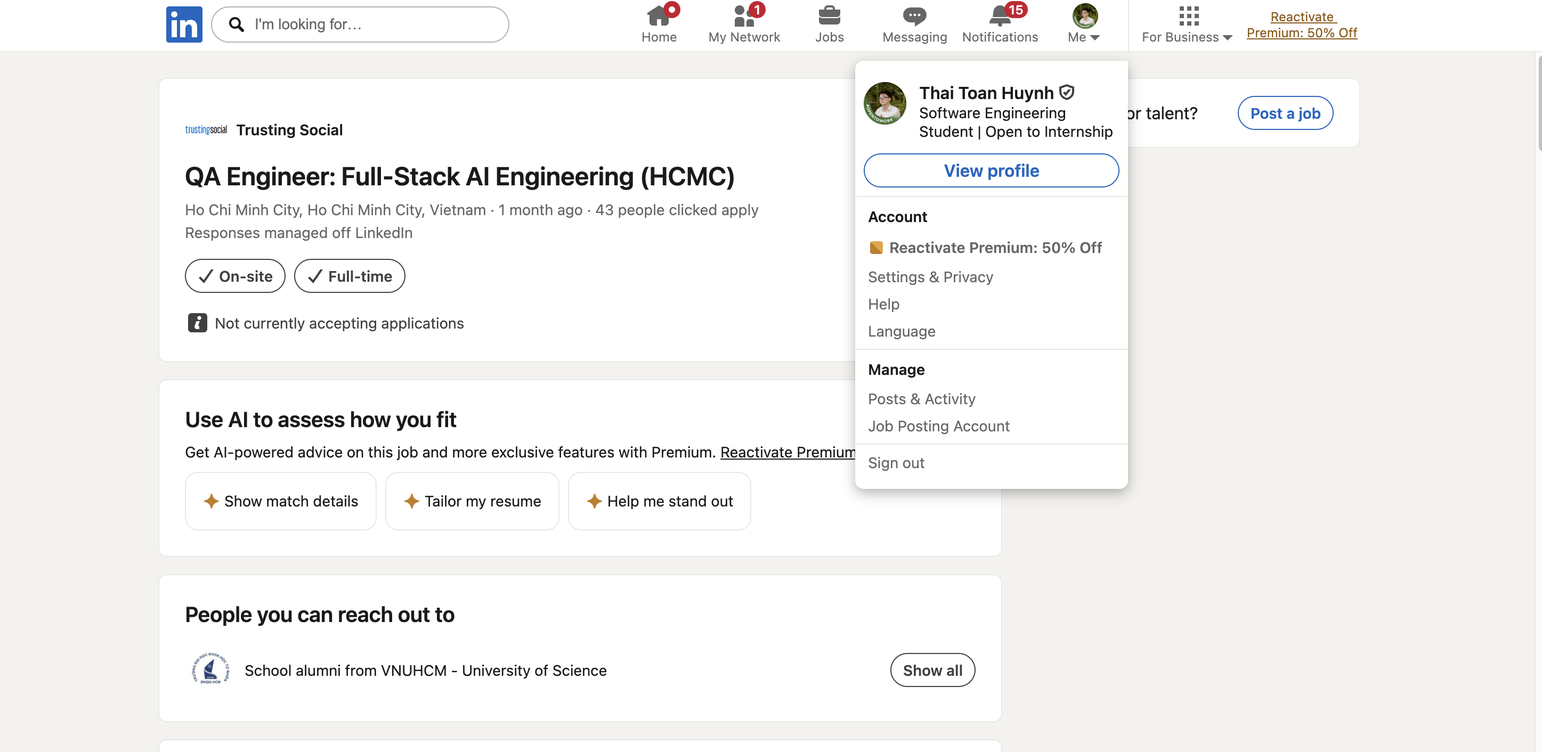
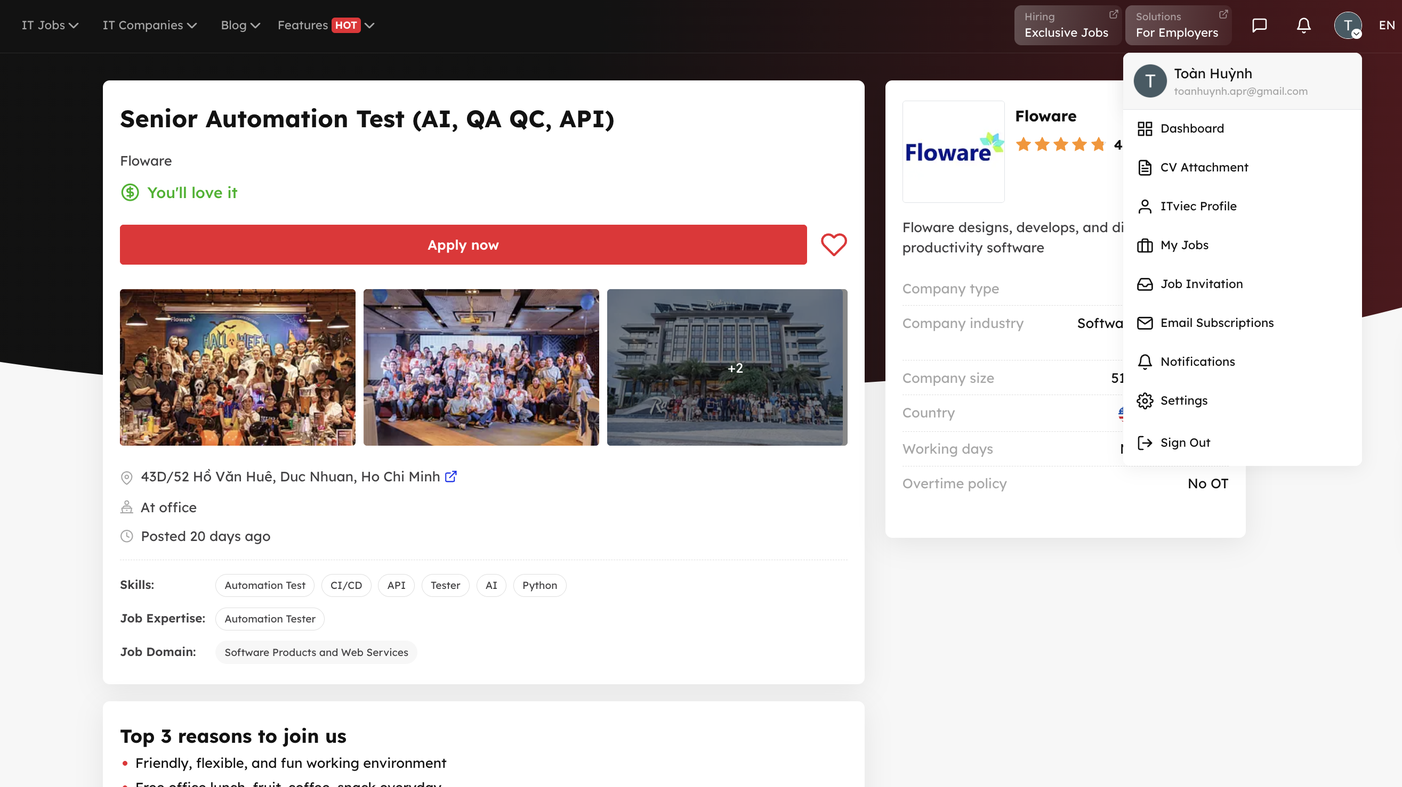
docs(hw01): finalize R1 job postings with unified JP01–JP10 screenshots

diff --git a/HW01/HW01_Report.md b/HW01/HW01_Report.md
@@ -1,94 +1,72 @@
-<!--
-HW01 – Requirement 1 working draft
-
-Re-verified on 24/09/2026 (evening). Sources used for dates:
-- LinkedIn: relative "posted" label on the public job page (exact date not exposed).
-- TopCV: `datePosted` in the page's JobPosting structured data (JSON-LD); the
-  visible page shows only the application deadline ("Hạn ứng tuyển").
-- ITviec: visible "Posted X days ago" label and `datePosted` metadata.
-- Indeed: automated access is redirected to sign-in (bot detection); JP03's date
-  was taken from the same job on DXC's official careers site / Workday.
-An application deadline is not a publication date.
--->
-
 # HW01 – QA/QC Jobs, Defects and Physical Product
 
 ## Requirement 1 – QA/QC Job Market 2026+ (40 points)
 
-### 1.1 Search scope and evidence status
+### 1.1 Search scope
 
-- **Submission date:** `[dd/mm/yyyy – fill in before submission]`
-- **Research snapshot:** 24/09/2026. For the planned 28/09/2026 submission, the 60-day window is 30/07/2026–28/09/2026; recalculate if the actual submission date changes.
-- **Number of postings:** 10. JP08 and JP09 were replaced on 24/09/2026 because the original ANDPAD and GoTymeX listings returned HTTP 404; their screenshots still have to be captured. JP03 was confirmed still open on 24/09/2026.
-- **Postings requiring AI/LLM/AI-assisted automation:** 5 (JP01, JP02, JP04, JP08, JP09), confirmed from the posting text on 24/09/2026. The requirement of ≥ 3 is met even if JP01 (“1 month ago”, not accepting applications) is dropped.
+- **Submission date:** `[dd/mm/yyyy]`
+- **60-day window:** 30/07/2026–28/09/2026
+- **Number of postings:** 10
+- **Postings requiring AI/LLM/AI-assisted automation skills:** 5 (JP01, JP02, JP04, JP08, JP09)
 - **Screenshot folder:** `R1_Job_Postings/`
-
-The assignment requires 10 postings published within 60 days before submission.
-Each screenshot must be taken in the student's own logged-in account, with the
-posting-date label and the account name/display name visible in a corner.
 
 ### 1.2 Summary of collected postings
 
-| ID | Position | Company | Platform | Posting date (verified 24/09/2026) | AI/LLM/AI-automation requirement | Salary | Evidence |
+| ID | Position | Company | Platform | Posting date | AI/LLM/AI-automation requirement | Salary | Evidence |
 |---|---|---|---|---|---|---|---|
-| JP01 | [QA Engineer: Full-Stack AI Engineering (HCMC)](https://www.linkedin.com/jobs/view/qa-engineer-full-stack-ai-engineering-hcmc-at-trusting-social-4448937255) | Trusting Social | LinkedIn | “1 month ago” (live page and screenshot agree); exact date not exposed; screenshot shows “Not currently accepting applications” | **Yes** – Claude Code/agents, AI Operator for quality workflows | Not disclosed | `JP01.png` |
-| JP02 | [AI Quality Assurance Tester (Data Testing)](https://www.linkedin.com/jobs/view/4459648611/) | SCC Vietnam | LinkedIn | “4 weeks ago” (live); screenshot of 23/09 shows “3 weeks ago” | **Yes** – AI testing, conversational interfaces, Azure AI, EU AI Act | Not disclosed | `JP02.png` |
-| JP03 | [Quality Engineering](https://jobs.vn.indeed.com/viewjob?jk=9ffa161d1774e3cf) | DXC Technology | Indeed | 08/09/2026 per DXC's official careers site (same job, ID 51585699); not shown in the Indeed screenshot | No (AI appears only in the company overview) | Not disclosed; listing says competitive package | `JP03_DXC.png` |
-| JP04 | [Senior QA Engineer (AI-Augmented Quality Engineering)](https://www.linkedin.com/jobs/view/senior-qa-engineer-ai-augmented-quality-engineering-4466589603) | Ins Enco | LinkedIn | “1 week ago” (live page and screenshot agree) | **Yes** – GPT/Claude test generation, Mabl/Testim, Applitools/Percy, Postbot | 30–40 million VND gross/month | `JP04.png` |
-| JP05 | [Nhân Viên Kiểm Thử Phần Mềm (Tester)](https://www.topcv.vn/viec-lam/nhan-vien-kiem-thu-phan-mem-tester/2306333.html) | Công ty TNHH Phát triển Công nghệ Thái Sơn | TopCV | 18/09/2026 (`datePosted`); deadline 18/10/2026 | No | 9–11 million VND (pay period not stated) | `JP05.png` |
-| JP06 | [Software Tester](https://www.topcv.vn/viec-lam/software-tester/2308656.html) | Công ty Cổ phần Voyager | TopCV | 22/09/2026 (`datePosted`); deadline 22/10/2026 | No | Negotiable | `JP06.png` |
-| JP07 | [Manual Tester](https://www.topcv.vn/viec-lam/manual-tester/2307365.html) | CTCP Phần mềm SOFTMART | TopCV | 21/09/2026 (`datePosted`); deadline 21/10/2026 | No | 9–14 million VND | `JP07.png` |
-| JP08 | [[Hanoi] Fullstack QA Engineer Lead (Manual, Auto, AI)](https://itviec.com/it-jobs/hanoi-fullstack-qa-engineer-lead-manual-auto-ai-money-forward-vietnam-co-ltd-4636) | Money Forward Vietnam | ITviec | 14/09/2026 (`datePosted`); live page shows “Posted 6 hours ago” (refreshed listing) | **Yes** – GenAI tools (Cursor, GitHub Copilot, LLM assistants), AI-augmented testing, testing AI features | Not disclosed (“You'll love it”) | `JP08_MoneyForward.png` (to capture) |
-| JP09 | [QA Engineer (Claude Code, Python, React, Manual Tester)](https://itviec.com/it-jobs/qa-engineer-claude-code-python-react-manual-tester-brarista-4435) | Brarista | ITviec | 07/09/2026 (`datePosted`); live page shows “Posted 17 days ago” | **Yes** – Claude Code for test matrices/regression suites, verifying AI-suggested tags | 800–1,000 USD/month (structured data; visible after sign-in) | `JP09_Brarista.png` (to capture) |
-| JP10 | [Software Quality Analyst (QA, Tester)](https://itviec.com/it-jobs/software-quality-analyst-qa-tester-mitek-vietnam-0714) | MiTek Vietnam | ITviec | 21/08/2026 (`datePosted`); screenshot shows “Posted 33 days ago”, live page “Posted 34 days ago” | No | Not disclosed; listing says competitive salary | `JP10.png` |
+| JP01 | [Senior Automation Test (AI, QA QC, API)](https://itviec.com/it-jobs/senior-automation-test-ai-qa-qc-api-floware-1219) | Floware | ITviec | 04/09/2026 | **Yes** – AI tools (Claude, Cursor, Copilot, ChatGPT) for test design, automation, debugging and quality analysis | Not disclosed | `JP01.png` |
+| JP02 | [AI Quality Assurance Tester (Data Testing)](https://www.linkedin.com/jobs/view/4459648611/) | SCC Vietnam | LinkedIn | 3 weeks ago (as of 23/09/2026) | **Yes** – AI testing, conversational interfaces, Azure AI, EU AI Act | Not disclosed | `JP02.png` |
+| JP03 | [Quality Engineering](https://dxctechnology.wd1.myworkdayjobs.com/DXCJobs/job/VNM---HO-CHI-MINH-CITY/Quality-Engineering_51585699?src=JB-11100) | DXC Technology | DXC Careers (Workday) | 08/09/2026 | No | Not disclosed | `JP03.png` |
+| JP04 | [Senior QA Engineer (AI-Augmented Quality Engineering)](https://www.linkedin.com/jobs/view/senior-qa-engineer-ai-augmented-quality-engineering-4466589603) | Ins Enco | LinkedIn | 1 week ago (as of 23/09/2026) | **Yes** – GPT/Claude test generation, Mabl/Testim, Applitools/Percy, Postbot | 30–40 million VND gross/month | `JP04.png` |
+| JP05 | [Nhân Viên Kiểm Thử Phần Mềm (Tester)](https://www.topcv.vn/viec-lam/nhan-vien-kiem-thu-phan-mem-tester/2306333.html) | Công ty TNHH Phát triển Công nghệ Thái Sơn | TopCV | 18/09/2026 | No | 9–11 million VND | `JP05.png` |
+| JP06 | [Software Tester](https://www.topcv.vn/viec-lam/software-tester/2308656.html) | Công ty Cổ phần Voyager | TopCV | 22/09/2026 | No | Negotiable | `JP06.png` |
+| JP07 | [Manual Tester](https://www.topcv.vn/viec-lam/manual-tester/2307365.html) | CTCP Phần mềm SOFTMART | TopCV | 21/09/2026 | No | 9–14 million VND | `JP07.png` |
+| JP08 | [[Hanoi] Fullstack QA Engineer Lead (Manual, Auto, AI)](https://itviec.com/it-jobs/hanoi-fullstack-qa-engineer-lead-manual-auto-ai-money-forward-vietnam-co-ltd-4636) | Money Forward Vietnam | ITviec | 14/09/2026 | **Yes** – GenAI tools (Cursor, GitHub Copilot, LLM assistants), AI-augmented testing, testing AI features | Not disclosed | `JP08.png` |
+| JP09 | [QA Engineer (Claude Code, Python, React, Manual Tester)](https://itviec.com/it-jobs/qa-engineer-claude-code-python-react-manual-tester-brarista-4435) | Brarista | ITviec | 07/09/2026 | **Yes** – Claude Code for test matrices/regression suites, verifying AI-suggested tags | 800–1,000 USD/month | `JP09.png` |
+| JP10 | [Software Quality Analyst (QA, Tester)](https://itviec.com/it-jobs/software-quality-analyst-qa-tester-mitek-vietnam-0714) | MiTek Vietnam | ITviec | 21/08/2026 | No | Not disclosed | `JP10.png` |
 
 ### 1.3 Detailed posting records
 
-Each posting contains exactly the items required by the assignment: link,
-dated screenshot, job description, required skills, salary, and 1–2 sentences
-of AI Impact Analysis.
+#### JP01 – Senior Automation Test (AI, QA QC, API), Floware
 
-#### JP01 – QA Engineer: Full-Stack AI Engineering (HCMC), Trusting Social
+- **Link:** [ITviec job posting](https://itviec.com/it-jobs/senior-automation-test-ai-qa-qc-api-floware-1219)
+- **Dated screenshot:** “Posted 20 days ago”, captured 24/09/2026 (posted 04/09/2026).
 
-- **Link:** [LinkedIn job posting](https://www.linkedin.com/jobs/view/qa-engineer-full-stack-ai-engineering-hcmc-at-trusting-social-4448937255)
-- **Dated screenshot:** “1 month ago” in the saved screenshot and on the live page (24/09/2026); LinkedIn does not expose the exact date, so the 60-day window cannot be proven. The screenshot also shows “Not currently accepting applications”.
+  ![JP01 – Floware ITviec screenshot](R1_Job_Postings/JP01.png)
 
-  ![JP01 – Trusting Social screenshot](R1_Job_Postings/JP01.png)
-
-- **Job description:** Own quality for a product or partner-integration track, from test design and automation to defect root-cause analysis and release go/no-go decisions. Build API, E2E, mobile and visual test suites and deterministic test infrastructure (service mocks, CI gates, test-data tooling); drive Claude Code and similar agents in a test-first loop; perform exploratory and risk-based testing and investigate defects with Datadog, Temporal, Kafka and SQL.
-- **Required skills:** 3+ years of QA engineering with test automation across APIs, Web UI and Mobile; TypeScript/JavaScript (Node); SQL; critical use of AI (prompting, evaluating agent output, acting as an “AI Operator” for quality workflows); strong professional English; Bachelor's in CS/Engineering or equivalent. Mobile/visual/performance testing, CI/CD, contract/mock testing and observability tools are pluses.
-- **Salary:** Not disclosed (listing mentions a competitive package with 13th-month salary).
-- **AI Impact Analysis:** AI can assist with test generation, code-level checks and quality-workflow automation in this role. Human QA judgment remains necessary to validate risk, coverage and failures in the full-stack product.
+- **Job description:** Ensure the quality of backend APIs in an Agile team through automated and manual testing, using AI tools to speed up test design, automation, debugging and quality analysis. Build API test scripts (Postman, Python); test an email system end to end (API, IMAP, SMTP, JMAP, migration, synchronization, authentication); run benchmarking, performance, load and stress tests; integrate API tests into Jenkins CI/CD and report results with Allure.
+- **Required skills:** 4+ years of automation testing; end-to-end automation process; experience using AI tools (Claude, Cursor, Copilot, ChatGPT) to improve testing productivity; Python; API automation (Python, Java, JMeter, Postman); CI/CD (GitHub, Jenkins, GitLab CI, nightly runs); analytical and problem-solving skills. Performance and security testing are a plus.
+- **Salary:** Not disclosed (net salary based on skills and experience).
+- **AI Impact Analysis:** AI tools can speed up API test design, script writing and failure debugging for this role. Protocol-level behavior such as IMAP/SMTP synchronization and performance bottlenecks still needs a human tester to design realistic workloads and interpret the results.
 
 #### JP02 – AI Quality Assurance Tester (Data Testing), SCC Vietnam
 
 - **Link:** [LinkedIn job posting](https://www.linkedin.com/jobs/view/4459648611/)
-- **Dated screenshot:** The saved screenshot (23/09/2026) shows “3 weeks ago”; the live page on 24/09/2026 shows “4 weeks ago”. Exact date is not exposed.
+- **Dated screenshot:** “3 weeks ago”, captured 23/09/2026.
 
   ![JP02 – SCC Vietnam screenshot](R1_Job_Postings/JP02.png)
 
 - **Job description:** Develop test scripts and test data for Scout, an AI-powered sales agent in Microsoft Teams. Validate chat-based AI answers, data consolidation from ZoomInfo, CRM and web sources, meeting-preparation outputs, conflict-resolution rules and EU AI Act transparency/logging; perform SIT/FAT with the UK team, report defects and support the Test Lead's documentation.
 - **Required skills:** Bachelor's degree; 2–4 years in software or AI testing (manual and automated); Microsoft Teams, Azure AI/Cloud and CRM platforms (Sales Hub, Salesforce); testing conversational interfaces, data pipelines or AI-powered applications; AI conflict resolution, data governance and EU AI Act; SIT/FAT, testing lifecycle, Agile, root-cause analysis and stakeholder management.
-- **Salary:** Not disclosed (listing says competitive remuneration).
+- **Salary:** Not disclosed (competitive remuneration).
 - **AI Impact Analysis:** AI can help generate data variations, classify failures and accelerate conversational test analysis. Human testers must still judge correctness, context and harmful or misleading responses.
 
 #### JP03 – Quality Engineering, DXC Technology
 
-- **Link:** [Indeed job posting](https://jobs.vn.indeed.com/viewjob?jk=9ffa161d1774e3cf)
-- **Dated screenshot:** The saved Indeed screenshot shows no posting date, and Indeed redirected automated checking to its sign-in page on 24/09/2026. The same job (DXC job ID 51585699, identical description) is listed on DXC's official careers site with `datePosted: 2026-09-08`; its Workday page shows “Posted 16 Days Ago” and still accepts applications (checked 24/09/2026). Recapture the Indeed page while logged in with the posting-age label visible, and add a screenshot of the DXC careers page as supporting date evidence.
-  - Supporting date source: [DXC careers – Quality Engineering, Tan Binh](https://careers.dxc.com/vi/job-vi/23717901/quality-engineering-tan-binh-vn/)
+- **Link:** [DXC Careers (Workday) job posting](https://dxctechnology.wd1.myworkdayjobs.com/DXCJobs/job/VNM---HO-CHI-MINH-CITY/Quality-Engineering_51585699?src=JB-11100) – job ID 51585699
+- **Dated screenshot:** “Posted 16 Days Ago”, captured 24/09/2026 (posted 08/09/2026).
 
-  ![JP03 – DXC Technology Indeed screenshot](R1_Job_Postings/JP03_DXC.png)
+  ![JP03 – DXC Technology Workday screenshot](R1_Job_Postings/JP03.png)
 
 - **Job description:** Develop and run automated tests for lending software, integrate tests into CI/CD, create test plans and summary reports, review solution documents, and help set acceptance criteria and resolve defects.
 - **Required skills:** 3+ years in software testing, including 2+ years of web/mobile and API automation; Selenium WebDriver with Java or Cypress with JavaScript/TypeScript; testing methods, Agile, and English communication. Postman/PACT/SoapUI/REST Assured and QTest/Jira/Confluence are also listed.
-- **Salary:** Not disclosed; the listing describes the package as competitive.
+- **Salary:** Not disclosed.
 - **AI Impact Analysis:** Automation tools can reduce repetitive regression work and provide earlier feedback in CI/CD. Human QA still needs to assess lending risks, acceptance criteria, test coverage and whether fixes address the underlying defects.
 
 #### JP04 – Senior QA Engineer (AI-Augmented Quality Engineering), Ins Enco
 
 - **Link:** [LinkedIn job posting](https://www.linkedin.com/jobs/view/senior-qa-engineer-ai-augmented-quality-engineering-4466589603)
-- **Dated screenshot:** “1 week ago” in the saved screenshot and on the live page (24/09/2026); exact date is not exposed.
+- **Dated screenshot:** “1 week ago”, captured 23/09/2026.
 
   ![JP04 – Ins Enco LinkedIn screenshot](R1_Job_Postings/JP04.png)
 
@@ -100,82 +78,71 @@ of AI Impact Analysis.
 #### JP05 – Nhân Viên Kiểm Thử Phần Mềm (Tester), Công ty TNHH Phát triển Công nghệ Thái Sơn
 
 - **Link:** [TopCV job posting](https://www.topcv.vn/viec-lam/nhan-vien-kiem-thu-phan-mem-tester/2306333.html)
-- **Dated screenshot:** Posted 18/09/2026 according to the page's `datePosted` metadata (checked 24/09/2026). The visible page and screenshot show only the application deadline (18/10/2026), so add evidence that shows the posting date.
+- **Dated screenshot:** Posted 18/09/2026; application deadline 18/10/2026.
 
   ![JP05 – Thái Sơn TopCV screenshot](R1_Job_Postings/JP05.png)
 
 - **Job description:** Plan test scenarios for software features, review design/solution documents, assess software-development process and product quality before release, and suggest testing techniques.
-- **Required skills:** Requirement analysis, testing process and techniques, test planning, test-case/script creation, collaboration with developers; the listing asks for under one year of experience and a relevant university degree.
-- **Salary:** 9–11 million VND; the listing does not show a pay period in the captured salary field.
-- **AI Impact Analysis:** AI could help draft test ideas and test scripts from requirements, but a tester must check that the cases fit the insurance specialization tagged on the listing and the actual release risks.
+- **Required skills:** Requirement analysis, testing process and techniques, test planning, test-case/script creation, collaboration with developers; under one year of experience and a relevant university degree.
+- **Salary:** 9–11 million VND.
+- **AI Impact Analysis:** AI could help draft test ideas and test scripts from requirements, but a tester must check that the cases fit the insurance specialization of the role and the actual release risks.
 
 #### JP06 – Software Tester, Công ty Cổ phần Voyager
 
 - **Link:** [TopCV job posting](https://www.topcv.vn/viec-lam/software-tester/2308656.html)
-- **Dated screenshot:** Posted 22/09/2026 according to the page's `datePosted` metadata (checked 24/09/2026). The visible page and screenshot show only the application deadline (22/10/2026), so add evidence that shows the posting date.
+- **Dated screenshot:** Posted 22/09/2026; application deadline 22/10/2026.
 
   ![JP06 – Voyager TopCV screenshot](R1_Job_Postings/JP06.png)
 
 - **Job description:** Functionally test software and web applications, document issues, manage test cases, update bug status, retest new versions and follow up on the development team's fixes.
 - **Required skills:** More than 3 years of testing experience, manual and automation testing, Google Sheets or Excel, and Japanese language ability or experience on Japanese-language projects.
-- **Salary:** Negotiable; the listing states it depends on qualifications and experience.
+- **Salary:** Negotiable, depending on qualifications and experience.
 - **AI Impact Analysis:** AI can assist with test-case drafting and bug-report summaries. Human review remains necessary for Japanese-language requirements, reproducibility and deciding whether a fix resolves the defect.
 
 #### JP07 – Manual Tester, CTCP Phần mềm SOFTMART
 
 - **Link:** [TopCV job posting](https://www.topcv.vn/viec-lam/manual-tester/2307365.html)
-- **Dated screenshot:** Posted 21/09/2026 according to the page's `datePosted` metadata (checked 24/09/2026). The visible page and screenshot show only the application deadline (21/10/2026), so add evidence that shows the posting date.
+- **Dated screenshot:** Posted 21/09/2026; application deadline 21/10/2026.
 
   ![JP07 – SOFTMART TopCV screenshot](R1_Job_Postings/JP07.png)
 
 - **Job description:** Analyze business requirements and specifications; prepare test plans, scenarios, cases and checklists; run functional, integration, regression, UI, end-to-end and API tests; check database data with SQL; report and verify bugs.
-- **Required skills:** Manual testing, API testing, SQL, bug tracking and teamwork with developers, BAs and PO/PM; 1–2 years of web/mobile testing experience (the overview lists 1 year); IT-related degree. Automation-script experience is an advantage.
-- **Salary:** 9–14 million VND; the captured salary field does not state net/gross or a pay period.
+- **Required skills:** Manual testing, API testing, SQL, bug tracking and teamwork with developers, BAs and PO/PM; 1–2 years of web/mobile testing experience; IT-related degree. Automation-script experience is an advantage.
+- **Salary:** 9–14 million VND.
 - **AI Impact Analysis:** AI can speed up checklist drafting and test-data ideas. The tester must validate outputs against the specification and confirm API/database behavior with real test evidence.
 
 #### JP08 – [Hanoi] Fullstack QA Engineer Lead (Manual, Auto, AI), Money Forward Vietnam
 
 - **Link:** [ITviec job posting](https://itviec.com/it-jobs/hanoi-fullstack-qa-engineer-lead-manual-auto-ai-money-forward-vietnam-co-ltd-4636)
-- **Dated screenshot:** The page's `datePosted` metadata is 14/09/2026 (valid through 19/10/2026); the live page on 24/09/2026 shows “Posted 6 hours ago”, which reflects a refreshed listing. **Screenshot not yet captured** – capture while logged in with “Posted …” and the account name visible.
+- **Dated screenshot:** “Posted 6 hours ago” (refreshed listing), captured 24/09/2026; original posting date 14/09/2026.
 
-  ![JP08 – Money Forward Vietnam ITviec screenshot](R1_Job_Postings/JP08_MoneyForward.png)
+  ![JP08 – Money Forward Vietnam ITviec screenshot](R1_Job_Postings/JP08.png)
 
 - **Job description:** Act as the quality lead for Money Forward's B2B SaaS products (Michibiku, Conkan), working with Japan-based PMs and engineers. Own release-risk decisions and entry/exit criteria, architect Playwright/TypeScript (or Python) web and API automation with CI/CD quality gates, govern outsourced QA teams, drive shift-left testing, and lead adoption of GenAI tools for test design, script generation and triage, including testing AI-assisted product features.
 - **Required skills:** Bachelor's in CS/SE; 8+ years of QA/SDET experience with 3+ years in a technical leadership role; fluent English; JavaScript/TypeScript or Python with Playwright, Cypress or Selenium; REST/GraphQL API testing and SQL validation; CI/CD and Dockerized test environments; daily practical use of GenAI tooling. Japanese and performance testing are nice to have.
-- **Salary:** Not disclosed (listing shows “You'll love it”).
+- **Salary:** Not disclosed.
 - **AI Impact Analysis:** AI tools are expected to speed up test design, script generation and triage, and the role also tests AI-assisted features. The lead still has to decide release risk, set safe AI-usage rules and judge whether AI output is correct.
 
 #### JP09 – QA Engineer (Claude Code, Python, React, Manual Tester), Brarista
 
 - **Link:** [ITviec job posting](https://itviec.com/it-jobs/qa-engineer-claude-code-python-react-manual-tester-brarista-4435)
-- **Dated screenshot:** The page's `datePosted` metadata is 07/09/2026 (valid through 12/10/2026); the live page on 24/09/2026 shows “Posted 17 days ago”. **Screenshot not yet captured** – capture while logged in with “Posted …” and the account name visible.
+- **Dated screenshot:** “Posted 17 days ago”, captured 24/09/2026 (posted 07/09/2026).
 
-  ![JP09 – Brarista ITviec screenshot](R1_Job_Postings/JP09_Brarista.png)
+  ![JP09 – Brarista ITviec screenshot](R1_Job_Postings/JP09.png)
 
 - **Job description:** Test Brarista's AI fit-assistance products (sizing engine, chat assistant, client dashboard and storefront widgets). Use Claude Code to generate size-conversion test matrices and regression suites, verify AI-suggested catalogue tags, own release quality and the changelog, and reproduce and triage client-reported bugs. Remote; part-time or full-time.
 - **Required skills:** Strong attention to detail; proven, heavy use of Claude Code, including catching its wrong output; edge-case thinking; clear written English for bug reports and release notes. Nice to have: Intercom/Gleap, changelog writing, pytest/Playwright, e-commerce/Shopify.
-- **Salary:** 800–1,000 USD/month according to the page's structured data; the visible page requires sign-in to show salary, so confirm it in the logged-in screenshot.
+- **Salary:** 800–1,000 USD/month.
 - **AI Impact Analysis:** Claude Code can generate the thousands of size combinations that cannot be checked by hand. The tester must still catch wrong AI output and wrong AI-assigned tags, because these errors reach real customers without any crash or alarm.
 
 #### JP10 – Software Quality Analyst (QA, Tester), MiTek Vietnam
 
 - **Link:** [ITviec job posting](https://itviec.com/it-jobs/software-quality-analyst-qa-tester-mitek-vietnam-0714)
-- **Dated screenshot:** The screenshot shows “Posted 33 days ago” (23/09/2026) and the live page shows “Posted 34 days ago” (24/09/2026), consistent with `datePosted: 2026-08-21`.
+- **Dated screenshot:** “Posted 33 days ago”, captured 23/09/2026 (posted 21/08/2026).
 
   ![JP10 – MiTek Vietnam screenshot](R1_Job_Postings/JP10.png)
 
 - **Job description:** Design, maintain and execute functional, regression and automation test cases; develop automated test scripts for Web, Windows applications and APIs; track defects through the testing lifecycle; debug and refactor tests; work with teams in Vietnam and the US to clarify requirements and designs.
 - **Required skills:** 4+ years of manual and automated testing; test automation for Web, Windows applications and APIs with any framework and language; Agile; testing processes and techniques; English communication; source control. SQL, Postman, CI/CD, Python and home-building domain knowledge are pluses.
-- **Salary:** Not disclosed; the listing says competitive salary.
+- **Salary:** Not disclosed (competitive salary).
 - **AI Impact Analysis:** AI can assist with repetitive quality analysis and report drafting, while human analysts remain responsible for interpreting business impact and communicating quality decisions.
-
-### 1.4 R1 completion checklist
-
-- [ ] Capture `JP08_MoneyForward.png` and `JP09_Brarista.png` while logged in to ITviec (show “Posted …”, salary field and account name). Do not submit the old `JP08.png` / `JP09.png` (expired ANDPAD / GoTymeX listings).
-- [ ] JP03: recapture on Indeed with the posting-age label visible, and add a screenshot of the DXC careers page showing the job (posted 08/09/2026).
-- [ ] JP01: decide whether to keep it (“1 month ago”, closed to applications) or replace it with another AI-requiring posting that has a clearly recent date.
-- [ ] JP05–JP07: add evidence that shows the posting date (the visible TopCV page shows only the deadline).
-- [ ] Fill in the actual submission date and recheck every posting against the 60-day window.
-- [ ] Confirm that each screenshot shows the account name/display name.
-- [ ] Keep every AI Impact Analysis to 1–2 sentences.
-- [ ] Preserve the original screenshots in the GitHub repository and reference them from the final report.

diff --git a/HW01/PLAN.md b/HW01/PLAN.md
@@ -79,6 +79,14 @@ Các bảng dùng schema cố định:
    - ZIP chứa: main report PDF, source Markdown, `prompt_log.md`, workbook Excel, device photo, file chứa YouTube links, mindmap, GitHub Issues screenshot, AI-02, AI-03 và AI-05 đã hoàn thành/ký.
    - Commit: `build(hw01): add verified report and submission package`.
 
+## Việc còn lại của R1 (theo dõi nội bộ, không đưa vào report)
+
+- [ ] JP05–JP07: ảnh TopCV chỉ hiện hạn ứng tuyển; ngày đăng (18/09, 22/09, 21/09/2026) lấy từ `datePosted` trong mã trang. Cần thêm ảnh có hiện ngày đăng.
+- [x] JP01 đã thay bằng Floware – Senior Automation Test (AI, QA QC, API), `datePosted` 04/09/2026.
+- [x] Đã chụp `R1_Job_Postings/JP01.png` (Floware) khi đăng nhập ITviec.
+- [x] Ảnh không dùng đã xoá; toàn bộ ảnh đặt tên thống nhất `JP01.png`–`JP10.png`.
+- [ ] Điền ngày nộp thực tế vào report và kiểm lại cửa sổ 60 ngày.
+
 ## Kiểm thử và tiêu chí chấp nhận
 
 - Đúng 10 jobs; tất cả thuộc cửa sổ 60 ngày; ≥3 jobs yêu cầu AI; đủ 10 ảnh có username.
